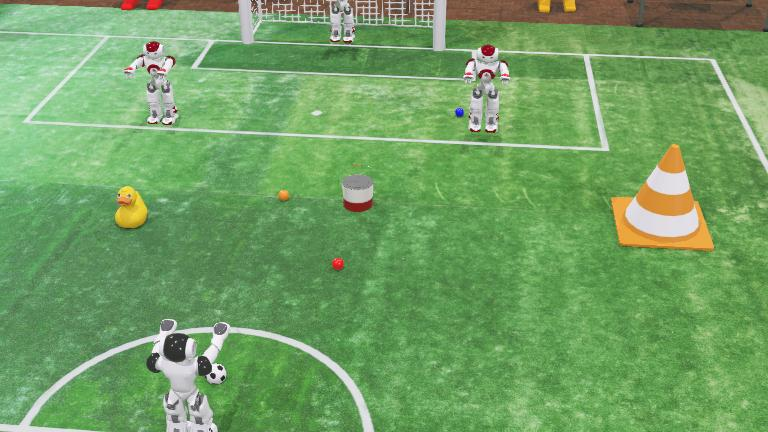
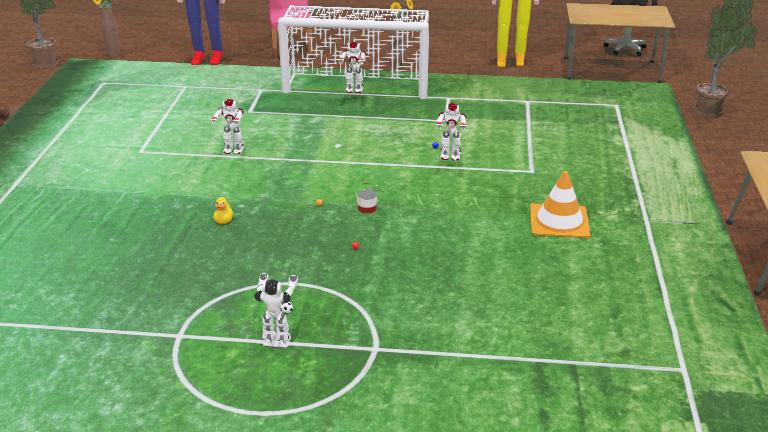
add better filter

diff --git a/visual_tracking_nao/controllers/visual_tracking/visual_tracking.py b/visual_tracking_nao/controllers/visual_tracking/visual_tracking.py
@@ -23,14 +23,16 @@ class Nao(Robot):
         self.head_yaw = self.getDevice("HeadYaw")
         self.head_pitch = self.getDevice("HeadPitch")
 
-        self.maxMotorVelocity = 6
-
-        self.velocity = 0.7 * self.maxMotorVelocity
-
-        self.head_yaw.setVelocity(0.3)
-        self.head_pitch.setVelocity(0.3)
+        self.velocity = 0.3
 
         self.angle = 0.0
+        self.distance = 0.0
+
+        self.head_yaw.setVelocity(self.velocity)
+        self.head_pitch.setVelocity(self.velocity)
+
+        self.state = "no_object_detected"
+        self.previous_state = ""
 
         # move arms down
         self.lShoulderPitch = self.getDevice("LShoulderPitch")
@@ -38,11 +40,16 @@ class Nao(Robot):
         self.lShoulderPitch.setPosition(math.radians(90))
         self.rShoulderPitch.setPosition(math.radians(90))
 
+    def set_velocity(self, velocity):
+        self.head_yaw.setVelocity(velocity)
+        self.head_pitch.setVelocity(velocity)
+
     def get_image(self):
         img = self.camera_top.getImage()
         img = np.frombuffer(img, dtype=np.uint8)
         img = img.reshape((self.height, self.width, 4))
         img = img[:, :, [0, 1, 2]]  # last channel not needed
+        img = cv2.medianBlur(img, 5)
         return img
 
     def get_color_mask_and_morphological_of_image(self, image, colour="yellow"):
@@ -98,37 +105,38 @@ while nao.step(nao.timestep) != -1:
     img = nao.get_image()
     mask = nao.get_color_mask_and_morphological_of_image(img)
     centers = nao.detect_center_of_objects(mask)
-    # print(centers)
-    try:
-        cX = centers[0][0]
-        cY = centers[0][1]
-    except IndexError:
+    cv2.imshow('image', mask)
+    cv2.waitKey(1)
+    nao.previous_state = nao.state
+    if len(centers) == 0:
+        nao.state = "no_object_detected"
+    else:
+        nao.state = "object_detected"
+
+    if nao.state == "no_object_detected":
+        if nao.previous_state == "object_detected":
+            nao.set_velocity(0.3)
+            target_head_yaw = math.radians(100) * math.sin(nao.angle)
+            target_head_pitch = math.radians(10) * math.cos(nao.angle)
+            continue
+        nao.set_velocity(6)
         target_head_yaw = math.radians(100) * math.sin(current_time)
         target_head_pitch = math.radians(10) * math.cos(current_time)
         nao.head_yaw.setPosition(target_head_yaw)
         nao.head_pitch.setPosition(target_head_pitch)
-        cv2.imshow('image', img)
-        cv2.waitKey(1)
         continue
-
-    angle, distance = nao.get_object_angle_from_distance(mask, cX, cY)
-    if nao.angle == 0.0:
-        nao.angle = angle
-
-    angle_delta = abs(angle - nao.angle)
-    scaling = nao.scaling_factor(angle_delta)
-
-    nao.angle = angle
-
-
-    print(f"Angle: {angle}")
-    print(f"Distance: {distance}")
-    cv2.imshow('image', img)
-    cv2.waitKey(1)
-
-    target_head_yaw = math.radians(100) * math.sin(math.radians(angle * scaling))
-    target_head_pitch = math.radians(10) * math.cos(math.radians(angle * scaling))
-
-    # set joints
-    nao.head_yaw.setPosition(target_head_yaw)
-    nao.head_pitch.setPosition(target_head_pitch)
+    if nao.state == "object_detected":
+        cX = centers[0][0]
+        cY = centers[0][1]
+        nao.set_velocity(0.3)
+        nao.angle, nao.distance = nao.get_object_angle_from_distance(mask, cX, cY)
+        # print(f"Angle: {nao.angle}")
+        # print(f"Distance: {nao.distance}")
+        if nao.distance < 30.0:
+            nao.set_velocity(0.0)
+            continue
+        target_head_yaw = math.radians(100) * math.sin(math.radians(nao.angle))
+        target_head_pitch = math.radians(10) * math.cos(math.radians(nao.angle))
+        # set joints
+        nao.head_yaw.setPosition(target_head_yaw)
+        nao.head_pitch.setPosition(target_head_pitch)
